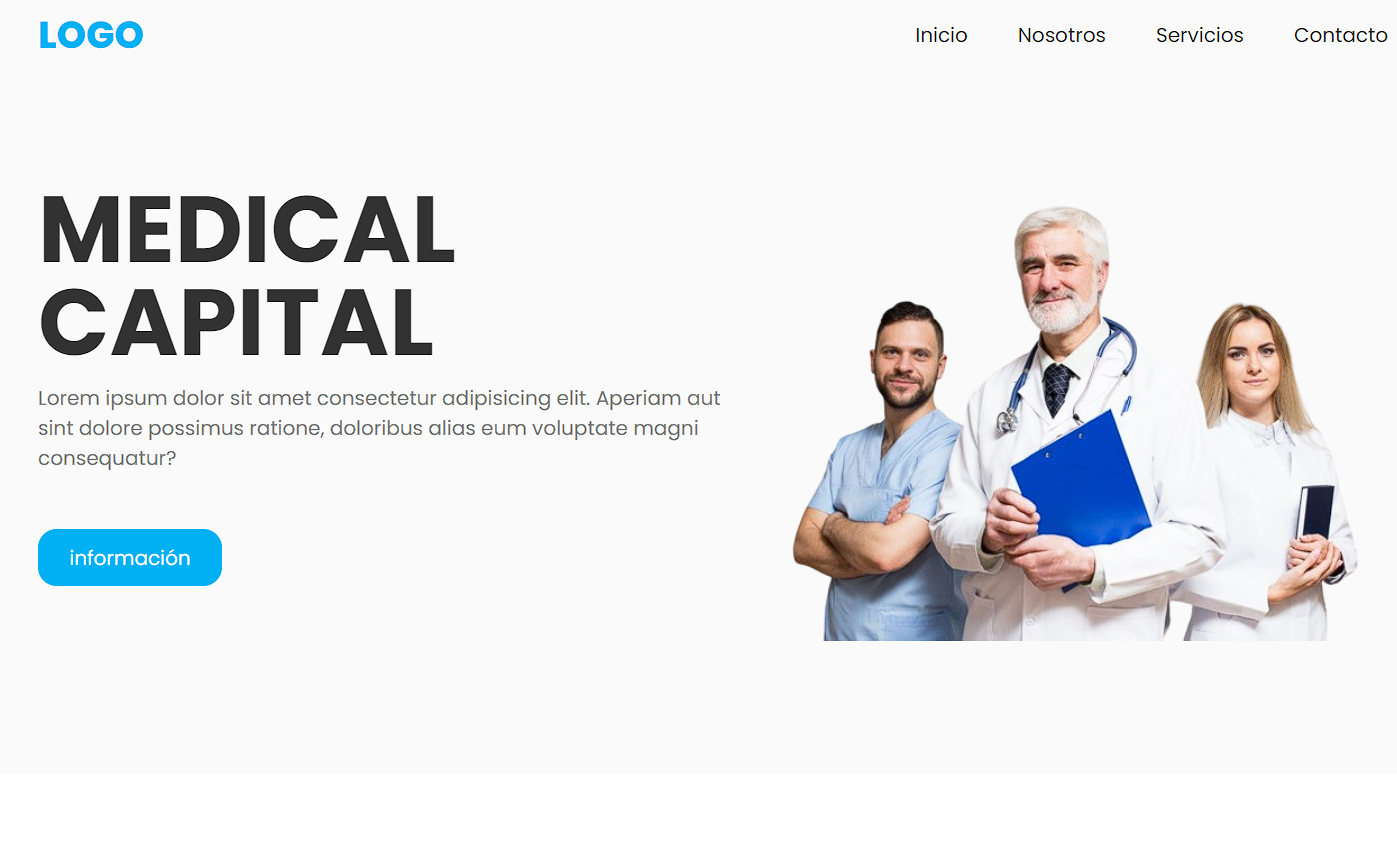
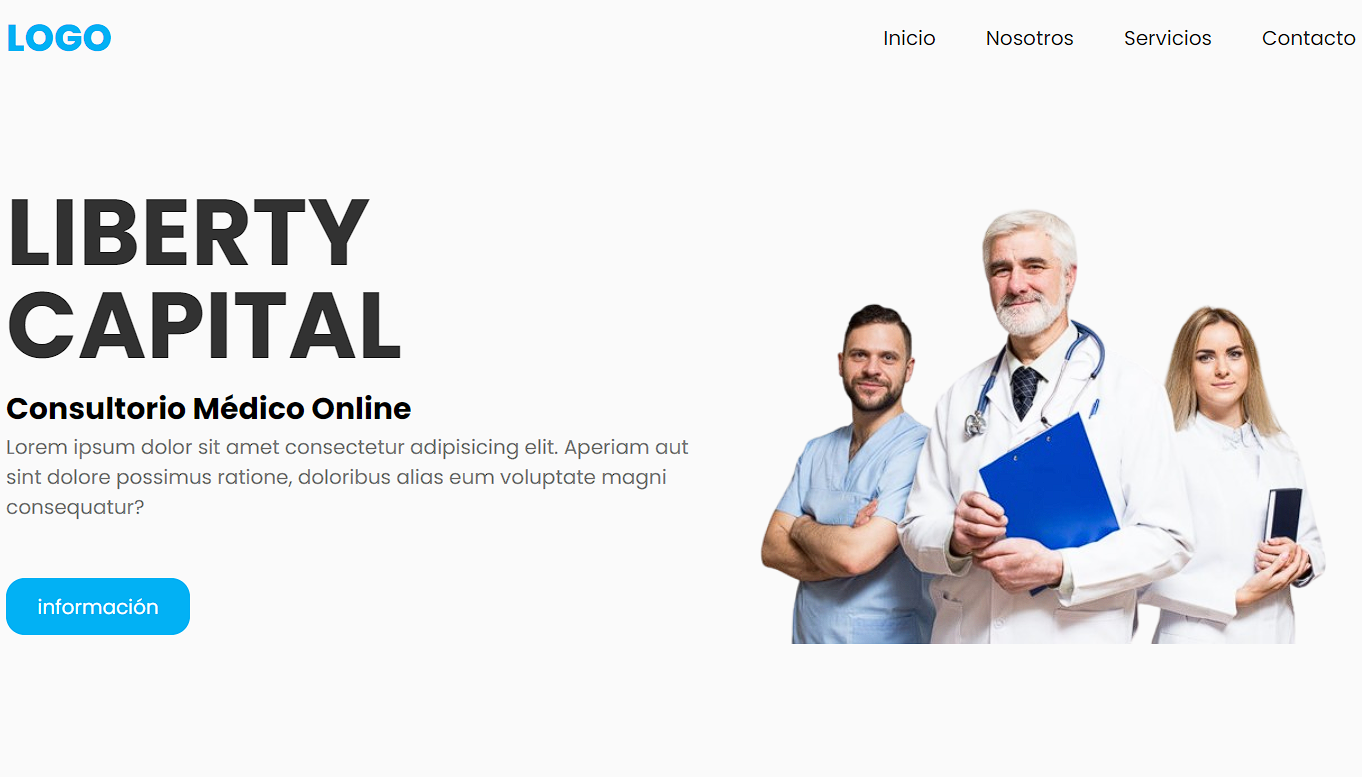
NewCommit_V6

diff --git a/index.html b/index.html
@@ -118,9 +118,17 @@
         <h2 class="modal-title"> Redes Sociales </h2>
          
           
-          <button class="boton-modal-red">instagram</button>
-          <button class="boton-modal-red">linkedin</button>
-          <button class="boton-modal-red">GitHub</button>
+          <button class="boton-modal-red"> 
+          <a style="text-decoration: none; color: #fff" href="https://www.instagram.com/maur1yedro/" target="_blank"
+          >instagram
+          </a>
+          </button>
+          <button class="boton-modal-red">
+            <a style="text-decoration: none; color: #fff" href="https://github.com/Yedro64/" target="_blank"
+            >GitHub
+          </a>
+          </button>
+          <button class="boton-modal-red">Linkedin</button>
           <!-- <p class="modal-parrafo">Lorem ipsum, dolor sit amet consectetur adipisicing elit. Veniam adipisci non, omnis exercitationem autem aliquam in provident distinctio amet voluptatum libero pariatur quos vero rem.</p> -->
            
           <a href="#" class="modal-cerrar">🠠 Volver</a> 
@@ -203,7 +211,7 @@
         <img src="/images/proyectos/medicos.png">
       </figure>
       <div class="contenido-card">
-        <h3>Medical Capital</h3>
+        <h3>Liberty Capital</h3>
         <p>Pagina Web orientada a los servicios médicos, brindados por la clinica Medical Capital. Pediatría, Ginecología, Dermatología, Cardiología. Cuenta con formulario para agendar consultas.</p>
         <a href="#" class="verMasBtn1">Ver Más</a>
       </div>
@@ -230,7 +238,7 @@
     </div>
     <div class="card">
       <figure>
-        <img src="https://encrypted-tbn0.gstatic.com/images?q=tbn%3AANd9GcRZ9DMNFHxwZcfPXJrJeBMITxPMP3FMZk_ixXzTfzt4G_C-G058">
+        <img src="">
       </figure>
       <div class="contenido-card">
         <h3>Proximamente...</h3>
@@ -240,7 +248,7 @@
     </div>
     <div class="card">
       <figure>
-        <img src="/images/image1.jpg">
+        <img src="">
       </figure>
       <div class="contenido-card">
         <h3>Proximamente...</h3>
@@ -250,7 +258,7 @@
     </div>
     <div class="card">
       <figure>
-        <img src="https://image.freepik.com/foto-gratis/desarrollo-programadores-desarrollo-tecnologias-diseno-codificacion-sitios-web_18497-1090.jpg">
+        <img src="">
       </figure>
       <div class="contenido-card">
         <h3>Proximamente...</h3>
@@ -267,12 +275,12 @@
 <section class="modal1">
     <div class="modal-contenedor">
       <a href="#" class="fa-solid fa-circle-xmark x"></a>
-        <h3 class="modal-titulo">Medical Capital</h3>
+        <h3 class="modal-titulo">Liberty Capital</h3>
         <p class="modal-parrafo">Pagina Web orientada a los servicios médicos, brindados por la clinica Medical Capital. Pediatría, Ginecología, Dermatología, Cardiología. Cuenta con formulario para agendar consultas.</p>
         <p> <strong>Stack:</strong> Html, Css, Js,  MySql, Php</p>
         <p>
           <strong>Repositorio:</strong>
-          <a href="https://github.com/MauriYedro64/Medical_Proyect" target="_blank">
+          <a href="https://github.com/Yedro64/Consultorio-Liberty-Center" target="_blank">
             <i class="fa-brands fa-github fa-2xl icon"></i>
           </a>
         </p>
